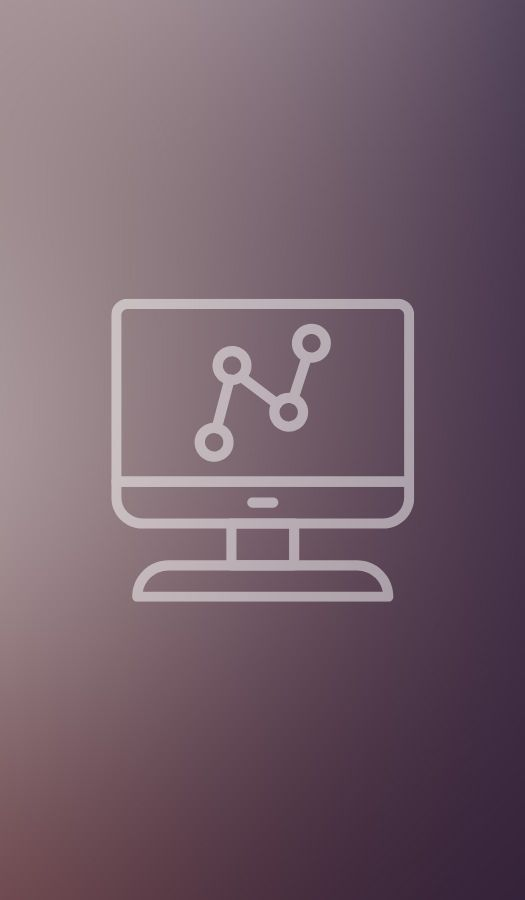
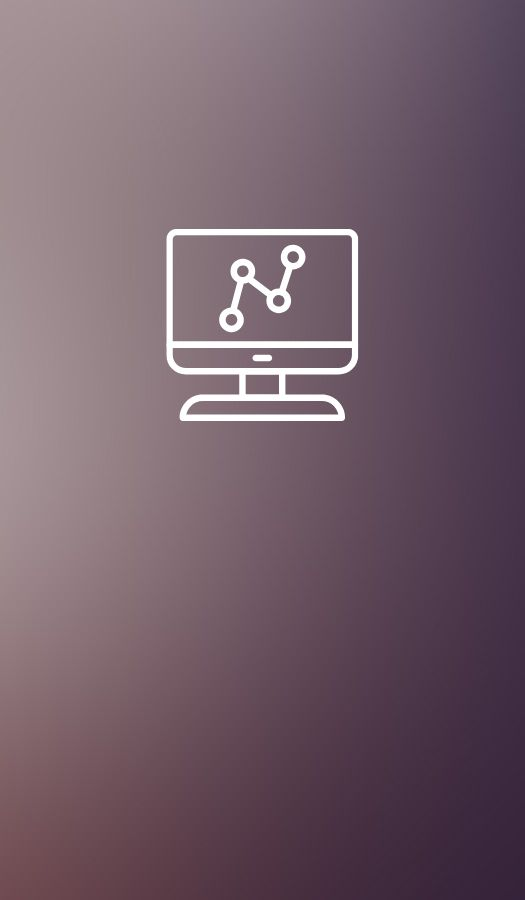
Add files via upload
Update images and index.html file

Changed region(s): [[0.2133, 0.2489, 0.7924, 0.6844]]

diff --git a/index.html b/index.html
@@ -23,8 +23,8 @@
 						<!-- Panel (Banner) -->
 							<section class="panel banner right">
 								<div class="content color0 span-3-75">
-									<h1 class="major">Orlin Data Analyst
-									<h2>Project Portfolio</h2>
+									<h1 class="major">Orlin Stankov
+									<h2>Data Analyst</h2>
 									<p>Welcome to my data analytycs <strong><a href="https://github.com/OrlinDataAnalyst" target="_blank">portfolio.</strong></a> Here you will find real-world projects where I dive into raw data and transform it into meaningfull insights.</p>
 									<ul class="actions">
 										<li><a href="#first" class="button primary color1 circle icon solid fa-angle-right">Next</a></li>
@@ -46,31 +46,36 @@
 								</div>
 							</section>
 
-							-->
+						-->	
 
 						<!-- Panel -->
 							<section class="panel color1" id="first">
 								<div class="intro joined">
-									<h2 class="major">About</h2>
-									<p>Skilled in processing, analysing and visualizing data using SQL, Python, Tableau, Power BI, R Studio and Excel.</p>
+									<h2 class="major">Skills</h2>
+									<p>Processing, analysing and visualizing data using SQL, Python, Tableau, Power BI, R Studio and Excel.</p>
 								</div>
 								<div class="inner">
 									<ul class="grid-icons three connected">
-    									<li><span class="icon solid fa-database my-transparent-icon"><span class="label">SQL</span></span></li>
-    									<li><span class="icon brands fa-python my-transparent-icon"><span class="label">Python</span></span></li>
-   										<li><span class="icon brands fa-r-project my-transparent-icon"><span class="label">R</span></span></li>
-    									<li><span class="icon solid fa-chart-line my-transparent-icon"><span class="label">Tableau</span></span></li>
-    									<li><span class="icon solid fa-chart-pie my-transparent-icon"><span class="label">Power BI</span></span></li>
-    									<li><span class="icon solid fa-table my-transparent-icon"><span class="label">Excel</span></span></li>
+    									<li><span class="icon solid fa-database"><span class="label">SQL</span></span></li>
+    									<li><span class="icon brands fa-python"><span class="label">Python</span></span></li>
+   										<li><span class="icon brands fa-r-project"><span class="label">R</span></span></li>
+    									<li><span class="icon solid fa-chart-line"><span class="label">Tableau</span></span></li>
+    									<li><span class="icon solid fa-chart-pie"><span class="label">Power BI</span></span></li>
+    									<li><span class="icon solid fa-table"><span class="label">Excel</span></span></li>
 									</ul>
 								</div>
 							</section>
 
-							<section class="panel banner right">
-			
-								<div class="image filtered span-1-75" data-position="25% 25%">
-									<img src="images/certificates.jpg" alt="" />
+							<!-- Panel -->
+							<section class="panel">
+								<div class="gallery">
+									<div class="group span-3">
+										<a href="https://www.coursera.org/account/accomplishments/professional-cert/G4GQVW752BSC" class="image filtered span-3" data-position="bottom" target="_blank"><img src="images/gallery/thumbs/01-google.jpg" alt=""/></a>
+										<a href="https://ude.my/UC-6bddbb37-1095-434a-abc1-b0ef7605dedf" class="image filtered span-1-5" data-position="center" target="_blank"><img src="images/gallery/thumbs/07-udemy-s.jpg" alt=""/></a>
+										<a href="https://ude.my/UC-2d43ec4a-14df-4d71-ab79-df85fe4b1606" class="image filtered span-1-5" data-position="bottom" target="_blank"><img src="images/gallery/thumbs/06-udemy-t.jpg" alt=""/></a>
+									</div>
 								</div>
+								
 							</section>
 
 						<!-- Panel (Spotlight) -->
@@ -109,9 +114,10 @@
 									</div>
 									<a href="images/gallery/fulls/09.jpg" class="image filtered span-2-5" data-position="right"><img src="images/gallery/thumbs/09.jpg" alt="" /></a>
 								</div>
+								-->
 							</section>
 							
-							-->
+							
 						
 
 						<!-- Panel -->
